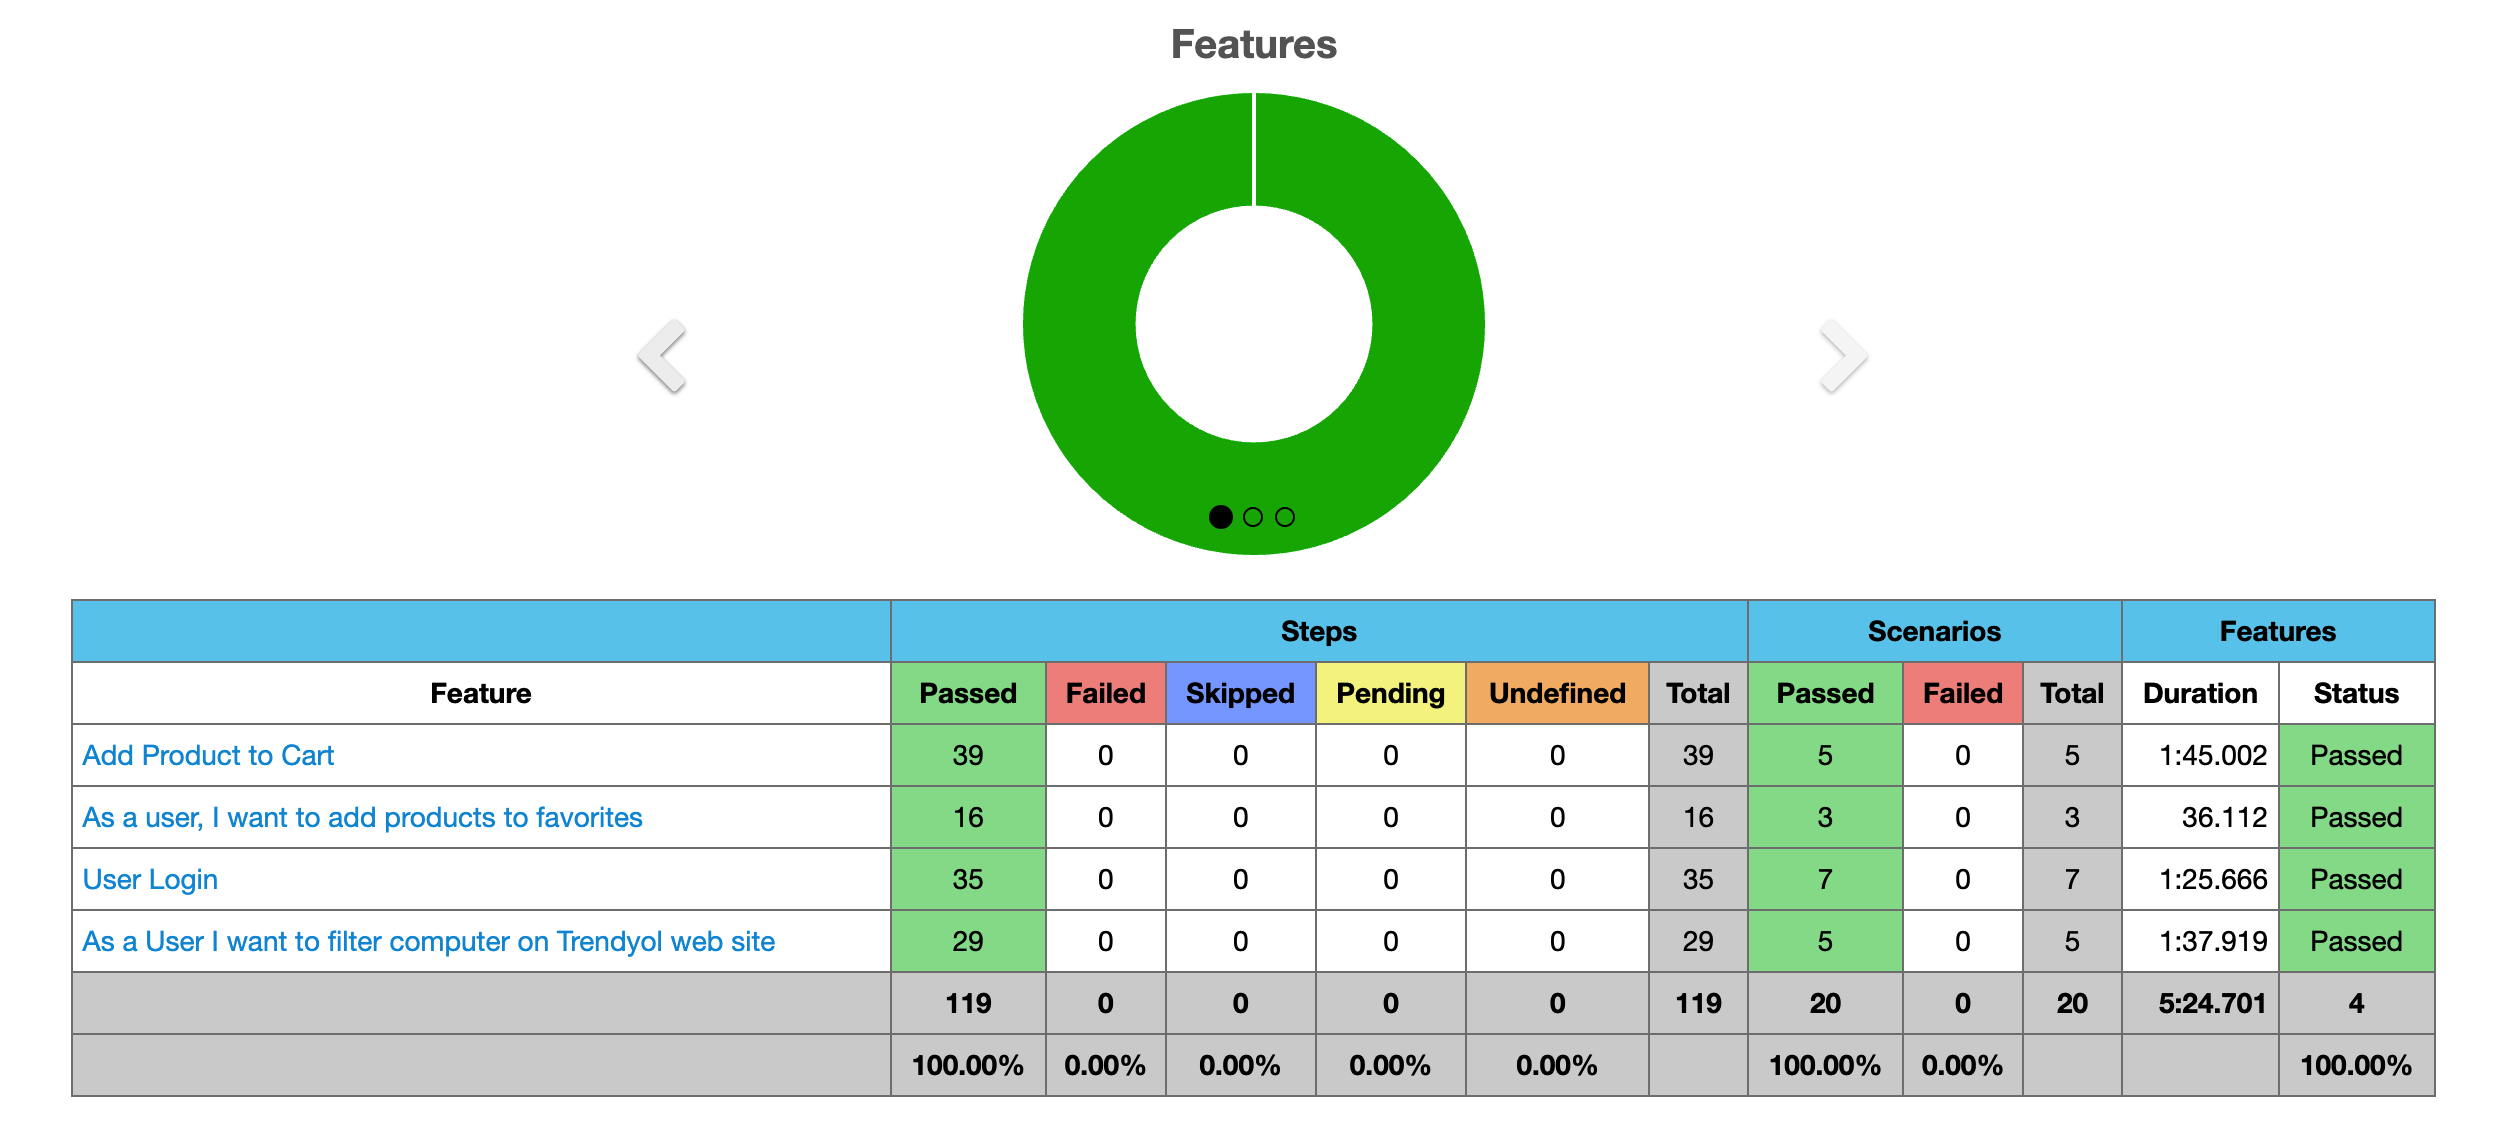
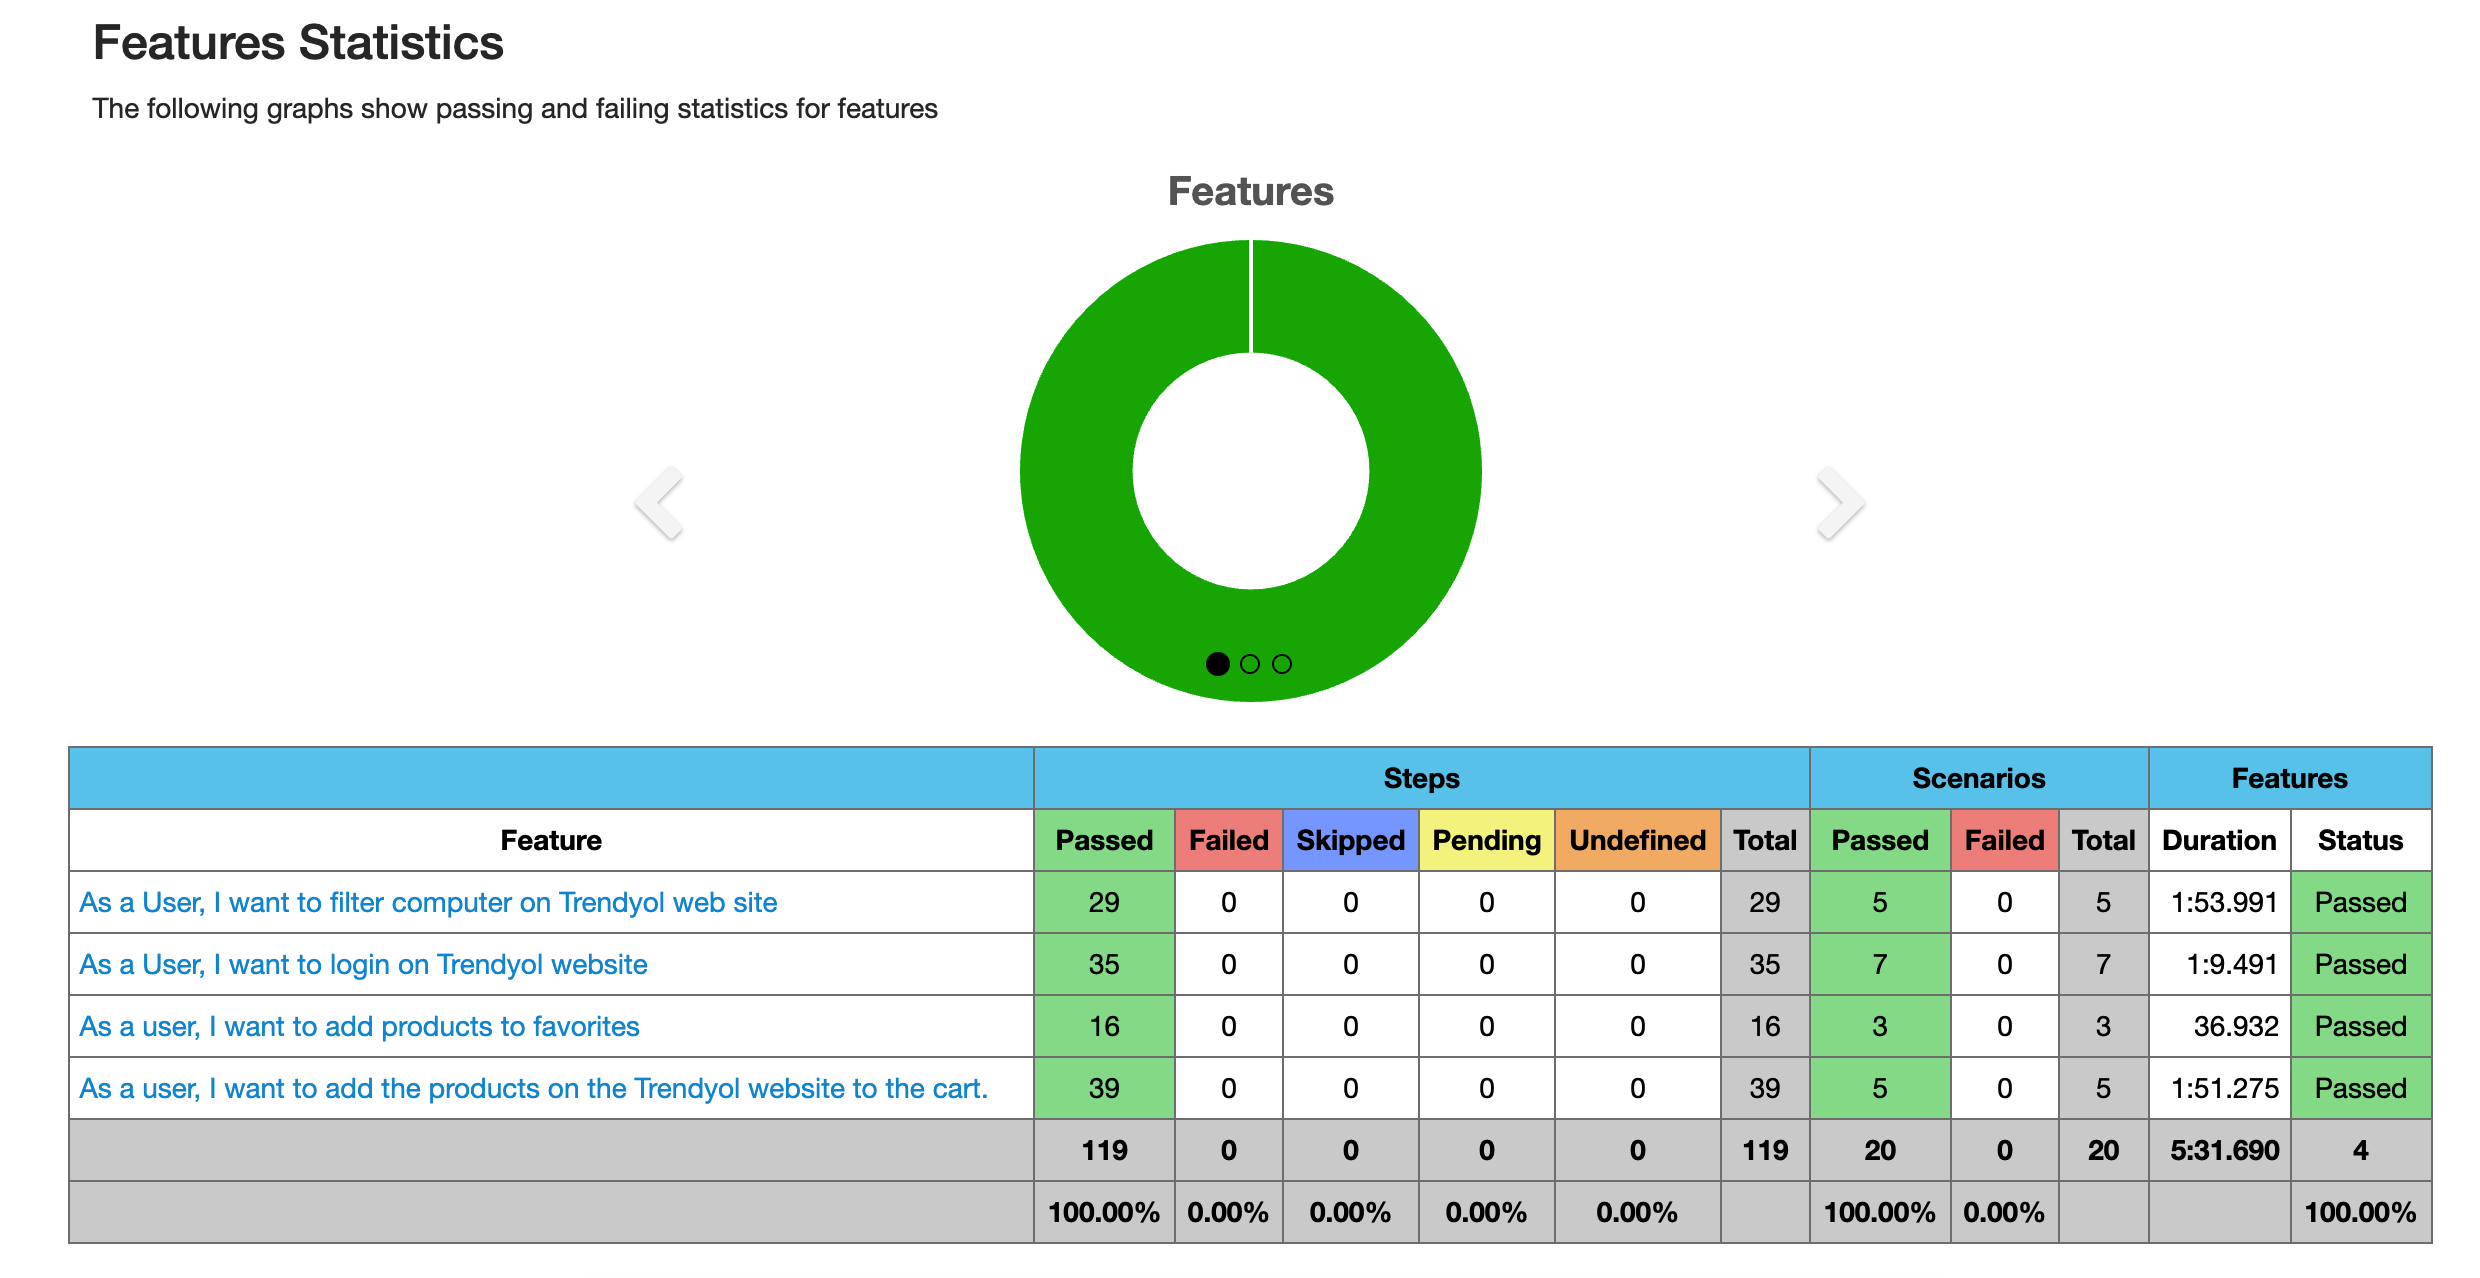
update README.md

Changed region(s): [[0.0, 0.031, 0.9935, 0.9619], [0.031, 0.0, 0.3726, 0.0931]]

diff --git a/README.md b/README.md
@@ -11,6 +11,7 @@ Bu proje, TechCareer tarafından gerçekleştirilen QA Mastery Bootcamp için ha
 - **JUnit**: Testlerin yürütülmesi ve raporlanması için kullanıldı.
 - **JavaFaker**: Test verilerini dinamik olarak üretmek için kullanıldı.
 - **ExtendReports**: Test sonuçlarını daha ayrıntılı olarak üretmek için kullanıldı.
+- **Jenkins**:GitHub entegre edilerek, her kod değişikliği yapıldığında otomatik olarak bir işlem başlatılabildi, böylece hatalar erken aşamada tespit edilip düzeltildi.
 
 ## Proje Yapısı
 
@@ -65,7 +66,16 @@ Bu proje, TechCareer tarafından gerçekleştirilen QA Mastery Bootcamp için ha
 
 ### Test Results
 
-![TestResult.png](https://github.com/hasankselek/techcareer-bootcamp-project-cucumber/blob/main/TestSS/TestResults.png)
+## Extend Reports
+
+![TestResult.png](https://github.com/hasankselek/techcareer-bootcamp-project-cucumber/blob/main/TestsSS/TestResults.png)
+
+## Jenkins Reports
+
+![JenkinsResult.png](https://github.com/hasankselek/techcareer-bootcamp-project-cucumber/blob/main/TestsSS/JenkinsResult.png)
+
+
+
 
 
 
